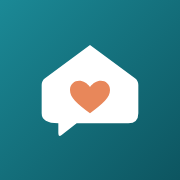
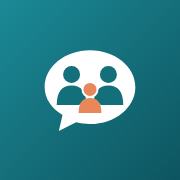
0.9.4: "Novo grupo" na lista de pessoas e ícone novo (família no balão)
- Nova conversa: tocar numa pessoa já abre a conversa; "👥 Novo grupo"
  no topo liga a escolha de várias pessoas e o nome do grupo.
- Ícone do app, do Falaí Servidor, dos avisos e do site: balão de conversa
  com a família dentro.

Claude-Session: https://claude.ai/code/session_019mWr1sauA538tdcSmSenzf

Changed region(s): [[0.2222, 0.25, 0.7778, 0.75]]

diff --git a/app/src/main/kotlin/app/falai/app/ui/NewConversationScreen.kt b/app/src/main/kotlin/app/falai/app/ui/NewConversationScreen.kt
@@ -1,6 +1,10 @@
 package app.falai.app.ui
 
 import androidx.compose.foundation.background
+import androidx.compose.ui.draw.clip
+import androidx.compose.foundation.shape.CircleShape
+import androidx.compose.foundation.layout.size
+import androidx.compose.foundation.layout.Box
 import androidx.compose.foundation.clickable
 import androidx.compose.foundation.layout.Column
 import androidx.compose.foundation.layout.Row
@@ -47,6 +51,7 @@ fun NewConversationScreen(client: FalaiClient, onBack: () -> Unit, onCreated: (S
     var title by remember { mutableStateOf("") }
     var error by remember { mutableStateOf<String?>(null) }
     var busy by remember { mutableStateOf(false) }
+    var groupMode by remember { mutableStateOf(false) }
     val scope = rememberCoroutineScope()
 
     // Atualiza a lista de pessoas (alguém pode ter entrado na família agora).
@@ -62,13 +67,6 @@ fun NewConversationScreen(client: FalaiClient, onBack: () -> Unit, onCreated: (S
             Text("Nova conversa ou grupo", color = Color.White, fontSize = 19.sp, fontWeight = FontWeight.SemiBold)
         }
 
-        if (people.isNotEmpty()) {
-            Text(
-                "Toque em uma pessoa para conversar. Para criar um grupo, marque várias pessoas.",
-                color = FalaiColors.TextSec, fontSize = 14.sp,
-                modifier = Modifier.padding(start = 16.dp, end = 16.dp, top = 12.dp, bottom = 4.dp),
-            )
-        }
         if (people.isEmpty()) {
             Text(
                 "Ainda não tem mais ninguém na família. Use \"Convidar\" na tela inicial.",
@@ -76,55 +74,94 @@ fun NewConversationScreen(client: FalaiClient, onBack: () -> Unit, onCreated: (S
             )
         }
 
-        LazyColumn(Modifier.weight(1f)) {
-            items(people, key = { it.id }) { p ->
-                Row(
-                    Modifier.fillMaxWidth().clickable {
-                        if (p.id in selected) selected.remove(p.id) else selected.add(p.id)
-                    }.padding(horizontal = 16.dp, vertical = 10.dp),
-                    verticalAlignment = Alignment.CenterVertically,
-                ) {
-                    Avatar(p.name, size = 40.dp)
-                    Spacer(Modifier.width(14.dp))
-                    Text(p.name, fontSize = 16.sp, modifier = Modifier.weight(1f))
-                    Checkbox(checked = p.id in selected, onCheckedChange = null)
+        fun create(kind: String, ids: List<String>, name: String?) {
+            if (busy) return
+            busy = true
+            error = null
+            scope.launch {
+                try {
+                    onCreated(client.createConversation(kind, name, ids).id)
+                } catch (e: Exception) {
+                    error = e.message ?: "Não deu para criar a conversa."
+                } finally {
+                    busy = false
                 }
             }
         }
 
-        Column(Modifier.navigationBarsPadding().padding(16.dp)) {
-            val isGroup = selected.size > 1
-            if (isGroup) {
+        LazyColumn(Modifier.weight(1f)) {
+            if (people.isNotEmpty()) {
+                item(key = "grupo") {
+                    // "Novo grupo": liga a escolha de várias pessoas.
+                    Row(
+                        Modifier.fillMaxWidth()
+                            .background(if (groupMode) FalaiColors.ChatBg else Color.White)
+                            .clickable { groupMode = !groupMode; selected.clear() }
+                            .padding(horizontal = 16.dp, vertical = 12.dp),
+                        verticalAlignment = Alignment.CenterVertically,
+                    ) {
+                        Box(
+                            Modifier.size(40.dp).clip(CircleShape).background(FalaiColors.Primary),
+                            contentAlignment = Alignment.Center,
+                        ) { Text("👥", fontSize = 20.sp) }
+                        Spacer(Modifier.width(14.dp))
+                        Column(Modifier.weight(1f)) {
+                            Text("Novo grupo", fontSize = 16.sp, fontWeight = FontWeight.SemiBold, color = FalaiColors.Primary)
+                            Text(
+                                if (groupMode) "Marque as pessoas do grupo e dê um nome" else "Conversa com várias pessoas juntas",
+                                fontSize = 13.sp, color = FalaiColors.TextSec,
+                            )
+                        }
+                        if (groupMode) Text("✕", fontSize = 18.sp, color = FalaiColors.TextSec)
+                    }
+                }
+                item(key = "titulo") {
+                    Text(
+                        if (groupMode) "Quem vai estar no grupo?" else "Conversar com",
+                        fontSize = 13.sp, fontWeight = FontWeight.SemiBold, color = FalaiColors.TextSec,
+                        modifier = Modifier.padding(start = 16.dp, top = 12.dp, bottom = 4.dp),
+                    )
+                }
+            }
+            items(people, key = { it.id }) { p ->
+                Row(
+                    Modifier.fillMaxWidth().clickable(enabled = !busy) {
+                        if (!groupMode) create("direct", listOf(p.id), null)
+                        else if (p.id in selected) selected.remove(p.id) else selected.add(p.id)
+                    }.padding(horizontal = 16.dp, vertical = 10.dp),
+                    verticalAlignment = Alignment.CenterVertically,
+                ) {
+                    Avatar(p.name, size = 40.dp, client = client, mediaId = p.avatarMediaId)
+                    Spacer(Modifier.width(14.dp))
+                    Text(p.name, fontSize = 16.sp, modifier = Modifier.weight(1f))
+                    if (groupMode) Checkbox(checked = p.id in selected, onCheckedChange = null)
+                }
+            }
+        }
+
+        if (groupMode || error != null) Column(Modifier.navigationBarsPadding().padding(16.dp)) {
+            if (groupMode) {
                 OutlinedTextField(
                     value = title, onValueChange = { title = it },
-                    label = { Text("Nome do grupo") }, singleLine = true,
+                    label = { Text("Nome do grupo (ex.: Família Silva)") }, singleLine = true,
                     modifier = Modifier.fillMaxWidth(),
                 )
                 Spacer(Modifier.height(8.dp))
             }
             error?.let { Text(it, color = FalaiColors.Error); Spacer(Modifier.height(8.dp)) }
-            Button(
-                enabled = !busy && selected.isNotEmpty() && (!isGroup || title.isNotBlank()),
-                onClick = {
-                    busy = true
-                    error = null
-                    scope.launch {
-                        try {
-                            val c = client.createConversation(
-                                if (isGroup) "group" else "direct",
-                                if (isGroup) title.trim() else null,
-                                selected.toList(),
-                            )
-                            onCreated(c.id)
-                        } catch (e: Exception) {
-                            error = e.message ?: "Não deu para criar a conversa."
-                        } finally {
-                            busy = false
-                        }
-                    }
-                },
+            if (groupMode) Button(
+                enabled = !busy && selected.isNotEmpty() && title.isNotBlank(),
+                onClick = { create("group", selected.toList(), title.trim()) },
                 modifier = Modifier.fillMaxWidth().height(50.dp),
-            ) { Text(if (isGroup) "Criar grupo com ${selected.size} pessoas" else "Conversar") }
+            ) {
+                Text(
+                    when {
+                        selected.isEmpty() -> "Marque as pessoas"
+                        title.isBlank() -> "Escreva o nome do grupo"
+                        else -> "Criar grupo (${selected.size + 1} pessoas com você)"
+                    },
+                )
+            }
         }
     }
 }

diff --git a/shared/src/main/kotlin/app/falai/protocol/Protocol.kt b/shared/src/main/kotlin/app/falai/protocol/Protocol.kt
@@ -17,7 +17,7 @@ import kotlinx.serialization.json.Json
 const val PROTOCOL_VERSION = 1
 
 /** Versão do Falaí (servidor e página web). O app usa a do build.gradle. */
-const val FALAI_VERSION = "0.9.3"
+const val FALAI_VERSION = "0.9.4"
 
 val FalaiJson = Json {
     classDiscriminator = "type"

diff --git a/README.md b/README.md
@@ -49,7 +49,7 @@ Mensageiro da família. Um celular antigo fica em casa como servidor, e os celul
 - **Atualizar o app** (0.9.3): quando o administrador abre o Falaí com uma versão nova, ela vai sozinha para o servidor, e os outros celulares mostram a faixa **"Versão nova do Falaí → Atualizar"** (baixa e instala pelo próprio Falaí; na 1ª vez o Android pede "Permitir desta fonte"). A página do convite e a página `/app` têm o passo a passo ilustrado dos avisos do Android (Play Protect → "Mais detalhes" → "Instalar mesmo assim").
 - **Importante:** gere o APK sempre no mesmo computador (mesma assinatura) e guarde uma cópia de `C:\Users\<você>\.android\debug.keystore`. Com outra assinatura, o Android recusa a atualização.
 - **Fundo das conversas:** cor calma com desenhinhos clarinhos (7 cores, desenhos liga/desliga, ou uma foto da galeria). *Configurações → Fundo das conversas* (no computador, na engrenagem).
-- **Ícone próprio** (casa-balão com coração) no app, no servidor, nos avisos, na tela de abertura; favicon, ícone de "instalar" e página do convite com a marca no computador.
+- **Ícone próprio** (balão com a família dentro) no app, no servidor, nos avisos, na tela de abertura; favicon, ícone de "instalar" e página do convite com a marca no computador.
 - Configurações mais limpas: só conexão e versão.
 
 Ainda não tem: notificações pelo Google (FCM), editor de vídeo, criptografia no app.
